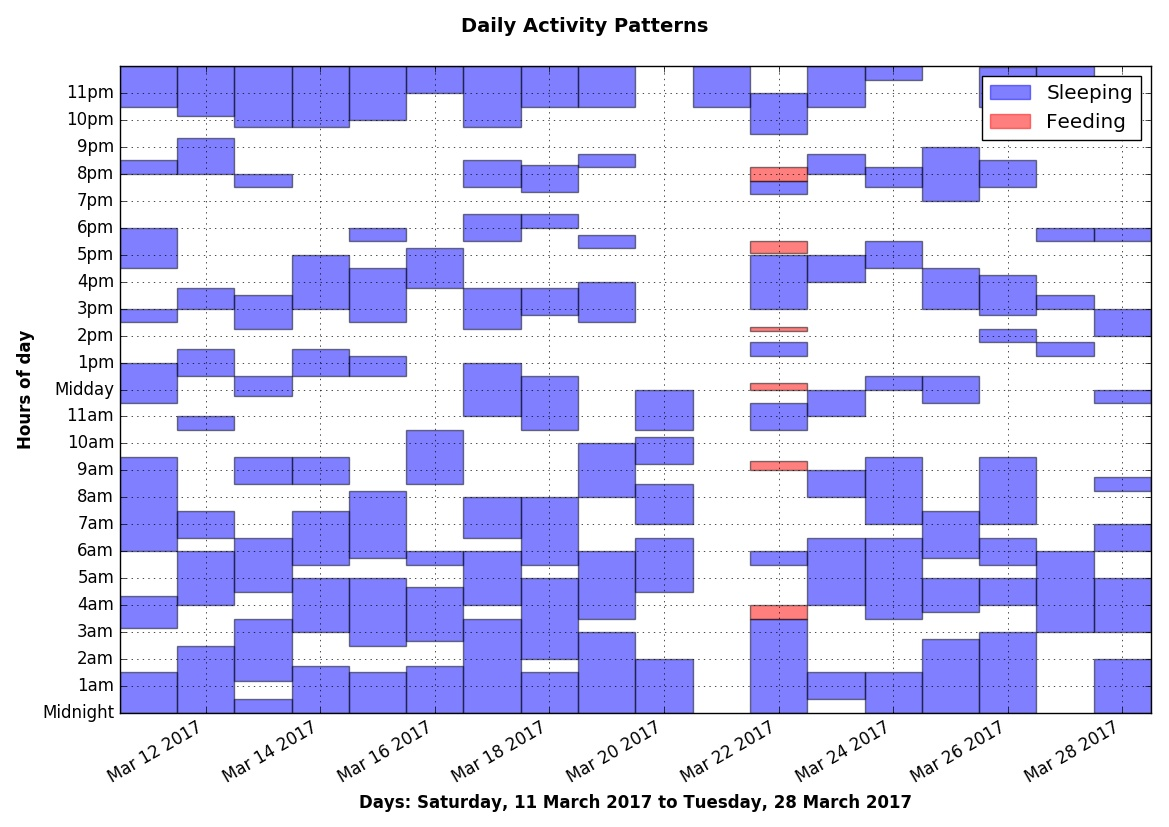
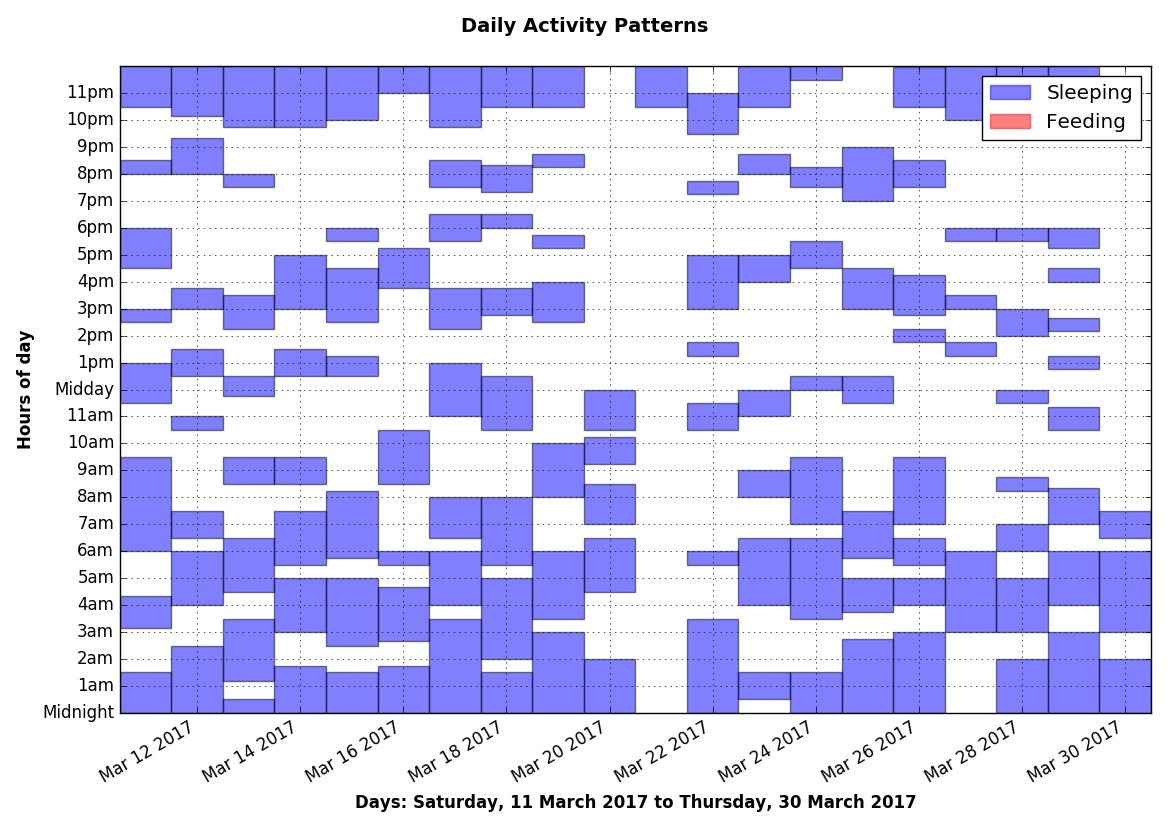
Added data. Removed partial feeding data

diff --git a/timeLog.py b/timeLog.py
@@ -107,7 +107,7 @@ def formatDataForAnalysis(plotDataList,maxDate,minDate):
     nights = []
     startOfFirstNight = minDate + dt.timedelta(hours=nightStartTimeHours)
     for i in range(delta.days + 1):
-        night = timePeriod("night",startOfFirstNight+dt.timedelta(days=i,hours=nightStartTimeHours),startOfFirstNight+dt.timedelta(days=i,hours=nightStartTimeHours+nightDurationHours))
+        night = timePeriod("night",startOfFirstNight+dt.timedelta(days=i,hours=nightStartTimeHours+1),startOfFirstNight+dt.timedelta(days=i,hours=nightStartTimeHours+1+nightDurationHours))
         nights.append(night)
 
     # Adds nights to twentyFourHourPeriods
@@ -201,7 +201,7 @@ def getMaxAndMinDates(plotDataList):
     return maxDate, minDate
 
 def go():
-    dataFiles = ['sleepDataStartingMarch22.csv','feedingDataStartingMarch22.csv']
+    dataFiles = ['sleepDataStartingMarch22.csv']#,'feedingDataStartingMarch22.csv']
     listOfInputLists = []
     for i in range(len(dataFiles)):
         nextList = readDataFromFile(dataFiles[i],i)
